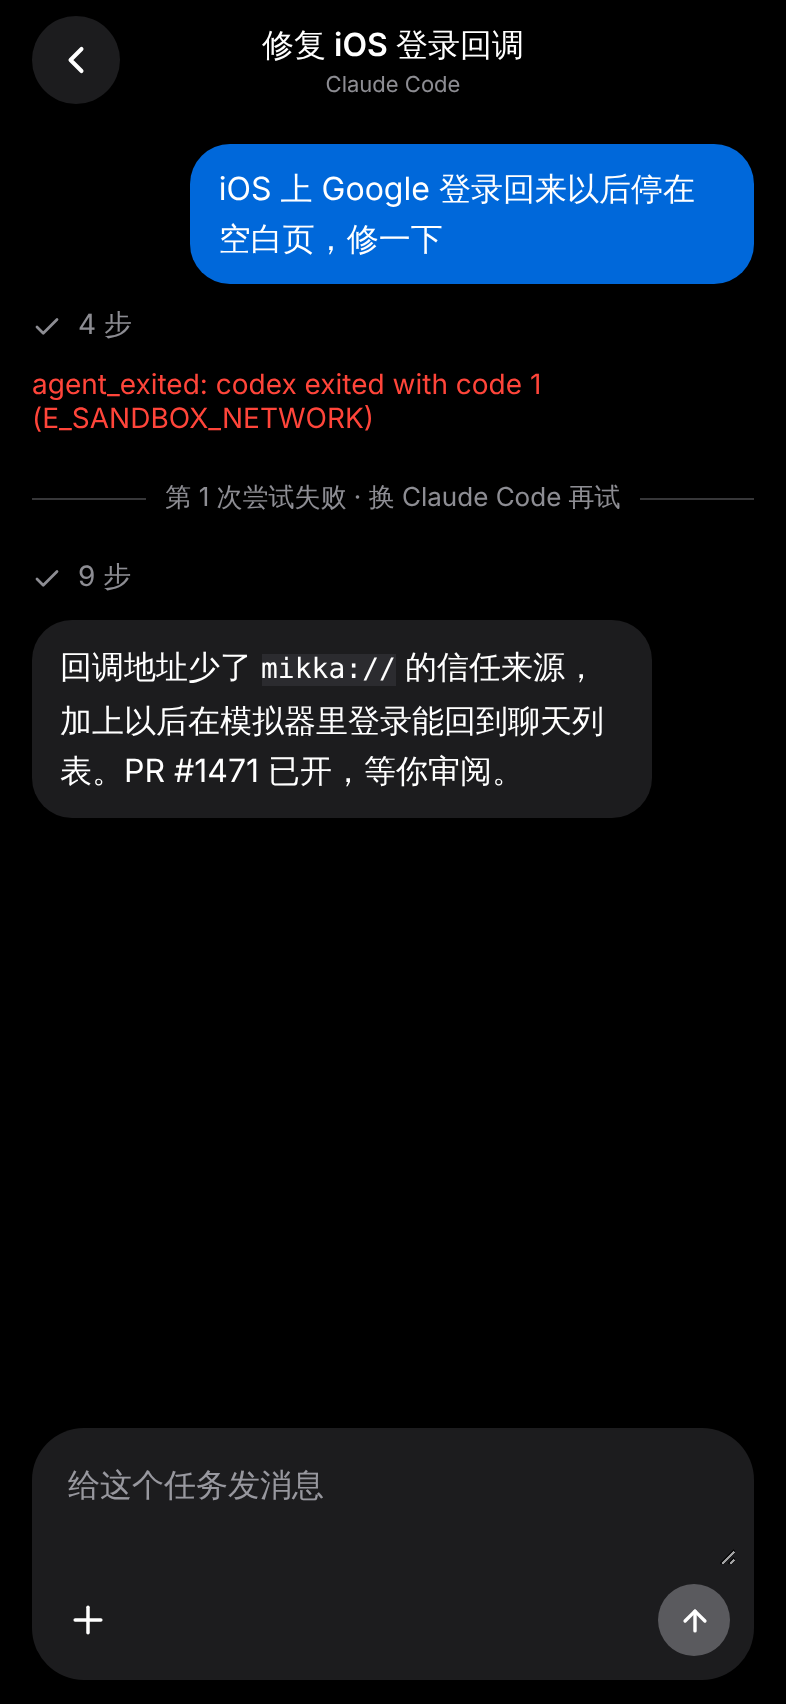
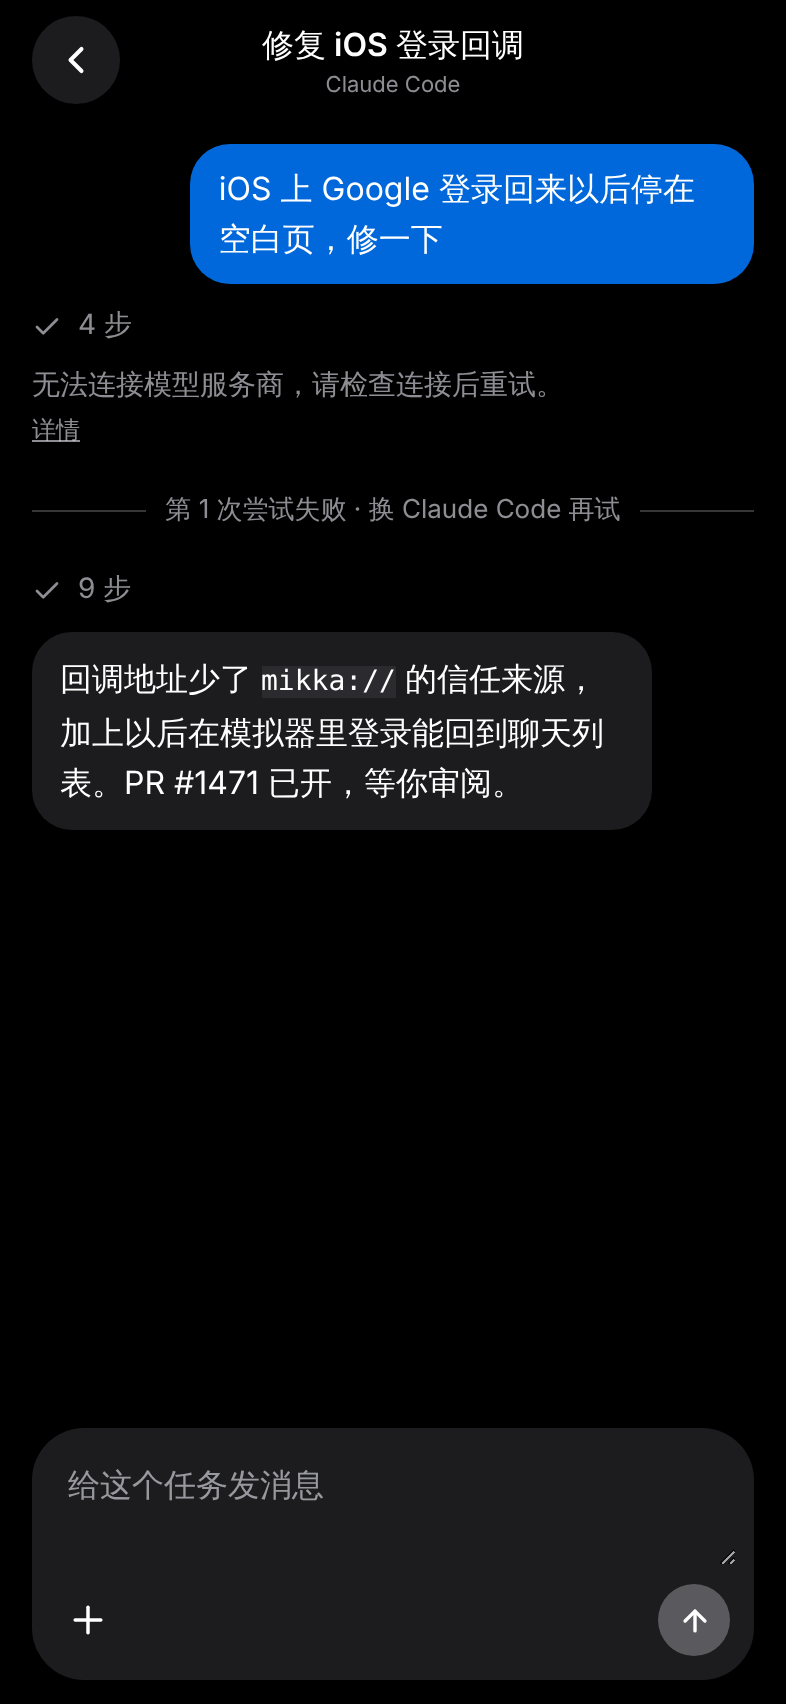
fix(mobile): attempts show their own result; causes in words; open at the attempt (#1671)
Review of abf0bf8:
- An attempt's icon and word come from its own run, never the task's
  reason: an attempt that finished and opened a PR is ✓ 完成; only the
  task waits for review. Pause is for an attempt that stopped to ask.
- A failed attempt's cause reads as its RunErrors words in secondary
  text, with the raw error folded under 详情 (decision 2026-11-05-0330),
  never raw red text (lib/run-error.ts).
- Opening an attempt from 活动 scrolls the conversation to that attempt;
  opening it plainly starts at the newest attempt, at the bottom.

Claude-Session: https://claude.ai/code/session_01XDndLScfAwEtstMEvukXBZ

diff --git a/apps/mobile/features/tasks/screens/task-conversation-screen.tsx b/apps/mobile/features/tasks/screens/task-conversation-screen.tsx
@@ -1,5 +1,5 @@
-import { Fragment, useCallback, useState } from 'react'
-import { StyleSheet, View } from 'react-native'
+import { useCallback, useRef, useState } from 'react'
+import { Platform, Pressable, StyleSheet, View } from 'react-native'
 import { KeyboardChatScrollView } from 'react-native-keyboard-controller'
 import { useLocalSearchParams, useRouter } from 'expo-router'
 import { useSafeAreaInsets } from 'react-native-safe-area-context'
@@ -19,6 +19,7 @@ import { useHome } from '@/lib/home'
 import { tasksLive, threadLive } from '@/lib/live-keys'
 import { composerStops } from '@/lib/stop'
 import { threadSendErrorLine } from '@/lib/thread-send-error'
+import { runErrorLine } from '@/lib/run-error'
 import type { TaskDetail, ThreadDetail, ThreadItem } from '@/lib/types'
 import { useLiveApi } from '@/lib/useApi'
 import { useStop } from '@/lib/useStop'
@@ -42,7 +43,7 @@ async function readConversation(id: string): Promise<Conversation> {
  * attempt's live keys.
  */
 export function TaskConversationScreen() {
-  const { id } = useLocalSearchParams<{ id: string; attempt?: string }>()
+  const { id, attempt } = useLocalSearchParams<{ id: string; attempt?: string }>()
   const router = useRouter()
   const insets = useSafeAreaInsets()
   const home = useHome().data
@@ -81,6 +82,18 @@ export function TaskConversationScreen() {
 
   const task = data?.detail.task
   const agent = currentAgent(segments)
+  // Opened on an attempt from 活动: scrolled to its part, once. Opened plainly: at the newest, at the bottom, as a chat.
+  const scroller = useRef<{ scrollTo: (to: { y: number; animated: boolean }) => void; scrollToEnd: (options: { animated: boolean }) => void } | null>(null)
+  const offsets = useRef(new Map<string, number>())
+  const placed = useRef(false)
+  const place = () => {
+    if (placed.current || !segments.length) return
+    const y = attempt ? offsets.current.get(attempt) : undefined
+    if (attempt && y === undefined && segments.some(segment => segment.attempt.runId === attempt)) return
+    placed.current = true
+    if (y !== undefined) scroller.current?.scrollTo({ y: Math.max(0, y - 8), animated: false })
+    else scroller.current?.scrollToEnd({ animated: false })
+  }
   return (
     <View style={styles.screen}>
       <NavBar
@@ -92,17 +105,18 @@ export function TaskConversationScreen() {
           </View>
         ) : undefined}
       />
-      <KeyboardChatScrollView {...underBar} offset={Math.max(insets.bottom, 12) - 8} keyboardDismissMode="interactive" keyboardLiftBehavior="whenAtEnd" contentContainerStyle={styles.body}>
+      <KeyboardChatScrollView ref={scroller as never} onContentSizeChange={place} {...underBar} offset={Math.max(insets.bottom, 12) - 8} keyboardDismissMode="interactive" keyboardLiftBehavior="whenAtEnd" contentContainerStyle={styles.body}>
         {!data && !error ? <View style={styles.center}><Spinner /></View> : null}
         <ReadNotice error={error} hasData={Boolean(data)} label="对话" onRetry={reload} />
         {data && !segments.length ? <Text style={styles.empty}>还没有尝试</Text> : null}
         {segments.map((segment, index) => (
-          <Fragment key={segment.attempt.runId}>
+          <View key={segment.attempt.runId} style={styles.segment}
+            onLayout={event => { offsets.current.set(segment.attempt.runId, event.nativeEvent.layout.y); place() }}>
             {index > 0 ? <Divider text={dividerText(segments[index - 1]!.attempt, segment.attempt)} /> : null}
             {segment.items.map((item, at) => <Item key={item.id} item={item} live={Boolean(live?.active) && index === segments.length - 1 && at === segment.items.length - 1} />)}
-            {/* A failed attempt's raw error stays inside it (2026-11-05-0330). */}
-            {segment.error && !(index === segments.length - 1 && live?.active) && !segment.items.some(item => item.kind === 'error') ? <Text style={styles.error}>{segment.error}</Text> : null}
-          </Fragment>
+            {/* A failed attempt's cause stays inside it, in words, with the raw code under 详情 (2026-11-05-0330). */}
+            {segment.error && !(index === segments.length - 1 && live?.active) && !segment.items.some(item => item.kind === 'error') ? <AttemptError raw={segment.error} /> : null}
+          </View>
         ))}
         {sendFailed ? <Text style={styles.error}>{sendFailed}</Text> : null}
         {live?.paused ? <ThreadQuotaPaused key={live.paused.runId} paused={live.paused} onContinued={() => reload()} /> : null}
@@ -126,9 +140,24 @@ function Item({ item, live }: { item: ThreadItem; live: boolean }) {
         </View>
       )
     case 'agent': return <View style={styles.message}><BotBubble><Markdown text={item.text} /></BotBubble></View>
-    case 'error': return <Text style={styles.error}>{item.text}</Text>
+    case 'error': return <AttemptError raw={item.text} />
     case 'person': return <View style={styles.message}><MyBubble text={item.text} /></View>
   }
+}
+
+/** Why an attempt stopped: its code's words in secondary text, the raw error folded under 详情. Never raw red text. */
+function AttemptError({ raw }: { raw: string }) {
+  const [open, setOpen] = useState(false)
+  const { line } = runErrorLine(raw)
+  return (
+    <View style={styles.cause}>
+      <Text style={styles.causeLine}>{line}</Text>
+      <Pressable accessibilityRole="button" accessibilityState={{ expanded: open }} onPress={() => setOpen(value => !value)} hitSlop={8}>
+        <Text style={styles.detailsToggle}>详情</Text>
+      </Pressable>
+      {open ? <Text selectable style={styles.details}>{raw}</Text> : null}
+    </View>
+  )
 }
 
 /** The line between two attempts, as the chat's event lines are drawn: centred grey words between hairlines. */
@@ -154,6 +183,11 @@ const styles = StyleSheet.create({
   step: { flexDirection: 'row', alignItems: 'center', gap: 8, minHeight: 26 },
   stepText: { fontSize: 14, color: colors.secondary },
   error: { fontSize: 14, color: colors.danger, marginVertical: 4 },
+  segment: { gap: 4 },
+  cause: { gap: 4, marginVertical: 4 },
+  causeLine: { fontSize: 14, color: colors.secondary },
+  detailsToggle: { fontSize: 12, color: colors.secondary, textDecorationLine: 'underline' },
+  details: { fontSize: 12, color: colors.secondary, fontFamily: Platform.OS === 'ios' ? 'Menlo' : 'monospace' },
   divider: { flexDirection: 'row', alignItems: 'center', gap: 10, marginVertical: 14 },
   rule: { flex: 1, height: StyleSheet.hairlineWidth, backgroundColor: colors.separator },
   dividerText: { flexShrink: 1, fontSize: 13, color: colors.secondary },

diff --git a/apps/mobile/features/tasks/screens/task-screen.tsx b/apps/mobile/features/tasks/screens/task-screen.tsx
@@ -24,8 +24,8 @@ const day = (iso: string) => {
   return `${d.getFullYear()}/${d.getMonth() + 1}/${d.getDate()}`
 }
 
-/** Where an attempt opens: the task's one conversation, which holds every attempt in order (2026-11-07). */
-export const conversationHref = (taskId: string): Href => ({ pathname: '/task/[id]/conversation', params: { id: taskId } })
+/** Where an attempt opens: the task's one conversation, scrolled to that attempt (2026-11-07). */
+export const conversationHref = (taskId: string, attempt?: string): Href => ({ pathname: '/task/[id]/conversation', params: attempt ? { id: taskId, attempt } : { id: taskId } })
 
 /**
  * A task's detail (decisions/2026-11-07-2045-tasks-only-threads-inside.md, Figma 1085:2 M2): its number and title,
@@ -44,8 +44,6 @@ export function TaskScreen() {
   const shown = task ? rowState(task) : null
   // 活动 runs oldest first, from the task's creation down (Alex 2026-11-07); the server sends it newest first.
   const activity = data ? [...data.activity].reverse() : []
-  // The newest attempt is the task's current one: a pause there says the task's reason (待审阅 · Claude Code · date).
-  const currentAttempt = data?.activity.find(item => item.kind === 'attempt')?.runId
 
   // A push opens the task, then the attempt it was about, once.
   const opened = useRef(false)
@@ -53,7 +51,7 @@ export function TaskScreen() {
     if (opened.current || !attempt || !data) return
     opened.current = true
     const found = data.activity.some(item => item.kind === 'attempt' && item.runId === attempt)
-    router.push(found ? conversationHref(data.task.id) : `/thread/${attempt}`)
+    router.push(found ? conversationHref(data.task.id, attempt) : `/thread/${attempt}`)
   }, [attempt, data, router])
 
   return (
@@ -78,8 +76,8 @@ export function TaskScreen() {
             {task.description ? <View style={styles.description}><Markdown text={task.description} /></View> : null}
             {activity.length ? <Text accessibilityRole="header" style={styles.section}>活动</Text> : null}
             {activity.map((item, index) => <ActivityRow key={`${item.kind}:${index}`} item={item} last={index === activity.length - 1}
-              reason={item.kind === 'attempt' && item.runId === currentAttempt ? shown?.reason ?? null : null}
-              onOpen={item.kind === 'attempt' ? () => router.push(conversationHref(task.id)) : undefined} />)}
+
+              onOpen={item.kind === 'attempt' ? () => router.push(conversationHref(task.id, item.runId)) : undefined} />)}
           </>
         ) : null}
       </ScrollView>
@@ -106,7 +104,8 @@ function Chip({ icon, label }: { icon: ReactNode; label: string }) {
  * One entry of 活动 on the timeline: an attempt carries its own result's icon and word (2026-11-07-2230) and opens
  * its thread; a replaced thread and the creation are lines.
  */
-function ActivityRow({ item, last, reason, onOpen }: { item: TaskActivity; last: boolean; reason: string | null; onOpen?: () => void }) {
+function ActivityRow({ item, last, onOpen }: { item: TaskActivity; last: boolean; onOpen?: () => void }) {
+  // Its own run's result, never the task's reason: an attempt that finished and opened a PR is 完成; only the task waits.
   const result = item.kind === 'attempt' ? attemptState(item) : null
   const body = (
     <>
@@ -121,7 +120,7 @@ function ActivityRow({ item, last, reason, onOpen }: { item: TaskActivity; last:
           {item.kind === 'attempt' ? `第 ${item.n} 次尝试` : item.kind === 'replaced' ? '换了新线程' : item.by ? `${item.by} 创建了任务` : '创建了任务'}
         </Text>
         <Text style={styles.activityMeta} numberOfLines={1}>
-          {result && item.kind === 'attempt' ? [result === 'paused' ? reason ?? ATTEMPT_WORD.paused : ATTEMPT_WORD[result], HARNESS[item.harness] ?? item.harness, day(item.createdAt)].filter(Boolean).join(' · ') : day(item.createdAt)}
+          {result && item.kind === 'attempt' ? [ATTEMPT_WORD[result], HARNESS[item.harness] ?? item.harness, day(item.createdAt)].filter(Boolean).join(' · ') : day(item.createdAt)}
         </Text>
       </View>
       {onOpen ? <ChevronRight size={18} color={colors.tertiary} strokeWidth={2} /> : null}

diff --git a/apps/mobile/lib/run-error.ts b/apps/mobile/lib/run-error.ts
@@ -1,0 +1,15 @@
+import messages from '../../../messages/zh-CN.json'
+
+const RUN_ERRORS = messages.RunErrors as Record<string, Record<string, string> & { default: string }>
+
+/**
+ * A run's stored error as a person reads it (decision 2026-11-05-0330): the stored error leads with `code (detail)`;
+ * a registered code gets its words from RunErrors (by detail when it has one), anything else the generic run_failed
+ * line. The raw text stays for 详情 only, never in place of the line.
+ */
+export function runErrorLine(raw: string): { line: string; raw: string } {
+  const match = /^([a-z][a-z0-9_]*)(?: \(([a-z0-9_]+)\))?/.exec(raw.trim())
+  const copy = match ? RUN_ERRORS[match[1]!] : undefined
+  const line = copy ? (match?.[2] && copy[match[2]]) || copy.default : RUN_ERRORS.run_failed!.default
+  return { line, raw }
+}

diff --git a/docs/design/components.md b/docs/design/components.md
@@ -88,7 +88,7 @@ component covers.
 | Mobile search | `SearchScreen` (`apps/mobile/features/search/screens/search-screen.tsx`) | The search tab: a large title and the system search field; results grouped Bot / 群聊 / 任务 (a thread shows as its task, [2026-11-07](decisions/2026-11-07-2045-tasks-only-threads-inside.md)). The task list is read only while there is a query |
 | Mobile task list | `TaskList`, `TaskGroupBar`, `TaskRowView`, `useTasks` (`apps/mobile/features/tasks/components/task-list.tsx`); icons in `task-icons.tsx`; groups in `features/tasks/model/task-groups.ts` | The 任务 tab (`TasksScreen`, + and 筛选 in the bar), a bot's 全部任务 and search results. 等待你 · 进行中 · 待办 · 已完成 under grey rounded bars with the group's icon (hand, ring, ◌, ✓), count and fold; 已完成 starts folded. A row (Figma M1): its own state's icon (`TaskStateIcon`: hand only for 等你处理, triangle for 失败, ring for 运行中, clock for 排队中, else the board's status icon; grey, no dots; [2026-11-07-2230](decisions/2026-11-07-2230-one-icon-per-task-state.md)), number, title, date; a grey line with the reason, the dispatching Bot's name and a schedule's rule. Priority is in the detail. A row opens the task ([2026-11-07](decisions/2026-11-07-2045-tasks-only-threads-inside.md)) |
 | Mobile task detail | `TaskScreen` (`apps/mobile/features/tasks/screens/task-screen.tsx`, route `app/task/[id].tsx`) | Number, title, properties as chips in one grey box, description (`Markdown`), then 活动 on a rail, oldest first: the creation, each attempt with its own result's icon (`AttemptIcon`: ring, pause, check, triangle, octagon; never the hand), a replaced thread. An attempt opens the task's one conversation. 「+ 评论」 is a `GlassButton` floating at the foot. A push with `attempt` opens that attempt once |
-| Mobile task conversation | `TaskConversationScreen` (`apps/mobile/features/tasks/screens/task-conversation-screen.tsx`, route `app/task/[id]/conversation.tsx`; model `features/tasks/model/task-conversation.ts`) | A task's one conversation (Alex 2026-11-07): every attempt's thread read with the existing `GET /api/mobile/threads/:id` and joined oldest first, a hairline divider between attempts (「第 1 次尝试失败 · 换 Claude Code 再试」), each failed attempt's raw error inside it. The bar is ← and the task's title over the current Agent; the composer, 停止 and a quota pause act on the newest attempt. Reuses `BotBubble`, `MyBubble`, `Markdown`, `Composer`, `ThreadQuotaPaused`, `StopFailed` |
+| Mobile task conversation | `TaskConversationScreen` (`apps/mobile/features/tasks/screens/task-conversation-screen.tsx`, route `app/task/[id]/conversation.tsx`; model `features/tasks/model/task-conversation.ts`) | A task's one conversation (Alex 2026-11-07): every attempt's thread read with the existing `GET /api/mobile/threads/:id` and joined oldest first, a hairline divider between attempts (「第 1 次尝试失败 · 换 Claude Code 再试」), each failed attempt's cause inside it as its RunErrors words in secondary text with the raw error under 详情 (`lib/run-error.ts`, 2026-11-05-0330). Opened on an attempt it scrolls to that attempt; opened plainly it starts at the newest, at the bottom. The bar is ← and the task's title over the current Agent; the composer, 停止 and a quota pause act on the newest attempt. Reuses `BotBubble`, `MyBubble`, `Markdown`, `Composer`, `ThreadQuotaPaused`, `StopFailed` |
 | Mobile workspaces | `WorkspacesScreen` (`apps/mobile/features/workspace/screens/workspaces-screen.tsx`); state in `features/workspace/model/use-workspaces.ts` | One inset group with a check on the open workspace; a tap switches and goes back. 编辑 shows drag handles; the order is kept on the device |
 | Mobile server and account selection | `ServerSelection` and `AccountsScreen` (`apps/mobile/features/accounts/`), in the existing `SignIn` and 设置 › 账号与服务器 | Reuses `Segmented` (native Picker on iOS), `CardButton`, `Text`, `Symbol`, `NavBar`, `Group`, `Row` and `Avatar`. Discovery shows the installation's name/revision before continuing; failures stay next to the action. Settings rows show saved email/server pairs with a check on the current one. Copy is `MobileServer` in the shared message dictionaries; protocol errors match the desktop. [Acceptance](../testing/mobile-self-hosting.md) |
 | Mobile home | `HomeScreen` (`apps/mobile/features/home/screens/home-screen.tsx`). The list model is `features/home/model/home-list.ts` (order, sections, badges, drops); the state and writes are in `use-home-chats.ts` | The Bot tab under the large title Bot, with + (新建 Bot, 新建群聊) on the right; no workspace menu ([2026-11-07](decisions/2026-11-07-2045-tasks-only-threads-inside.md)). Then `PinnedGrid` (three columns, star on each tile) and folding `SectionHeader`s, 正在工作 / Bot / 群聊; the Bot header is left out when the bots open the list. Each `HomeChatRow` has a `Link` with `Link.Preview` and `chatMenu`, swipes left to two capsules 置顶 / 隐藏 (148 pt; a full swipe past 230 pt pins) and drags after a 250 ms hold (`ChatDragProvider`, `chat-drag.tsx`). `ChatBadge` sits under the time on a row and on the avatar of a tile. 隐藏的聊天 is `HiddenChatsScreen` |
